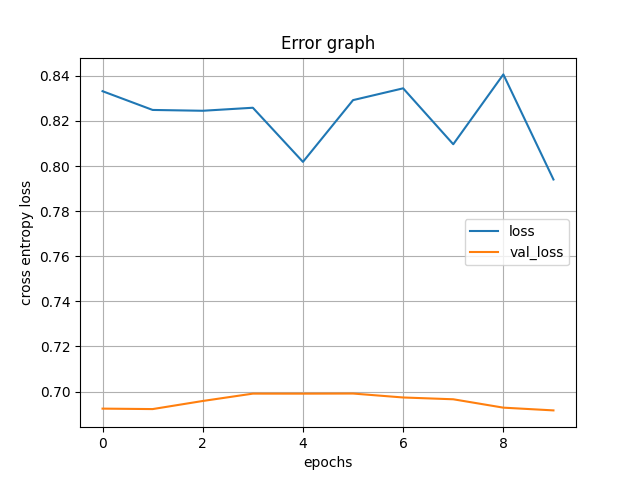
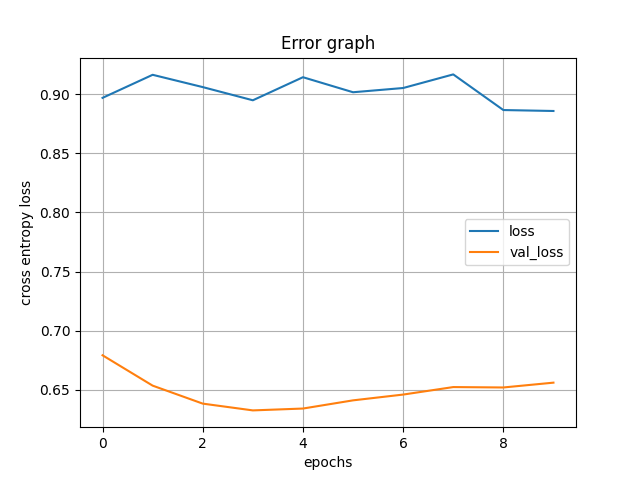
add conv1D

diff --git a/scripts/models.py b/scripts/models.py
@@ -49,7 +49,7 @@ for crypto in cryptos:
 
     #Initialization Data
     data = Data(crypto)
-    thresold_pump = 0.01
+    thresold_pump = 0.03
     model_type = 'Return'
     data.load_data(pump_thresold=thresold_pump)
 
@@ -61,12 +61,12 @@ for crypto in cryptos:
     features = data.df.iloc[:,3:-2].columns # select features for our model
     features = features.drop('date')
 
-
+    print(features)
     #==============
     # Creating Data
     #==============
     #choose for our estimation
-    data.create_RNN_data(reg=model_type,LAG=5,columns=features,pump_thresold=thresold_pump)
+    data.create_RNN_data(reg=model_type,LAG=10,columns=features,pump_thresold=thresold_pump)
     print(f'dimension of data: {data.df.shape}')
 
     #%%
@@ -116,7 +116,7 @@ for crypto in cryptos:
     # plt.show()
     feature_names = [column for column in X.columns]
 
-    pct_split = 0.3
+    pct_split = 0.2
     split = int((1-pct_split)*len(X))
     X_train, X_test, y_train, y_test = X_scaled[:split],X_scaled[split:], y[:split], y[split:]
 

diff --git a/scripts/NN_models.py b/scripts/NN_models.py
@@ -177,6 +177,8 @@ class RNN(DNN):
 
         for i, l in enumerate(architecture):
             if i == 0:
+                L.append(tf.keras.layers.Conv1D(filters=l,kernel_size=2))
+                #L.append(tf.keras.layers.MaxPooling1D(pool_size=2))
                 L.append(tf.keras.layers.LSTM(l)) # first layer is now an SLTM
             else:
                 L.append(tf.keras.layers.Dense(l, activation=activation))  # add a layer

diff --git a/scripts/data.py b/scripts/data.py
@@ -42,6 +42,7 @@ class Data:
         #print(y)
         X = []
         X_c = []
+        #add Close_ret_t+1
         xx = self.df[columns].iloc[1:,:].values
         for i in range(LAG+1,0-1,-1):
             if i > 0:
